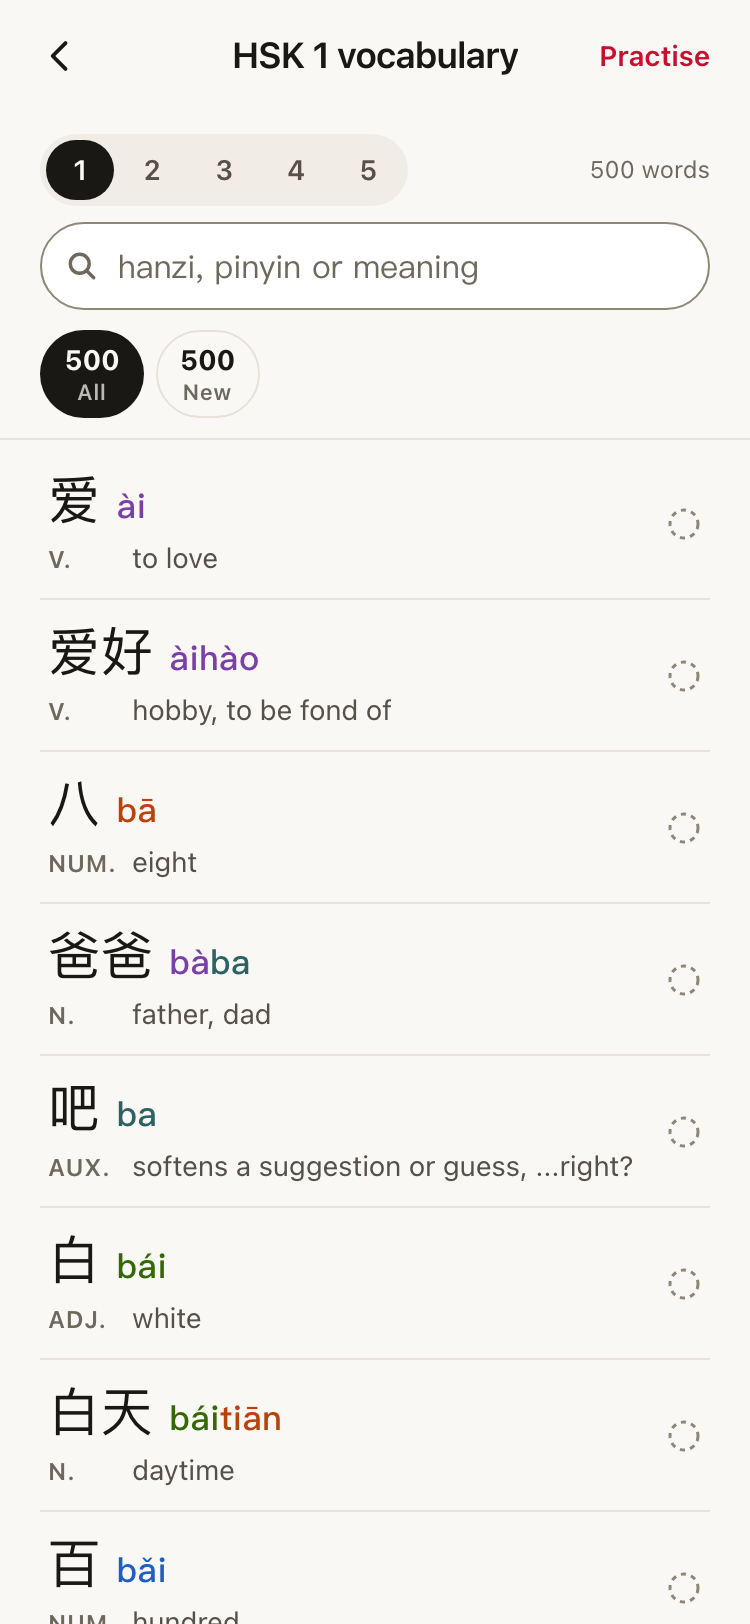
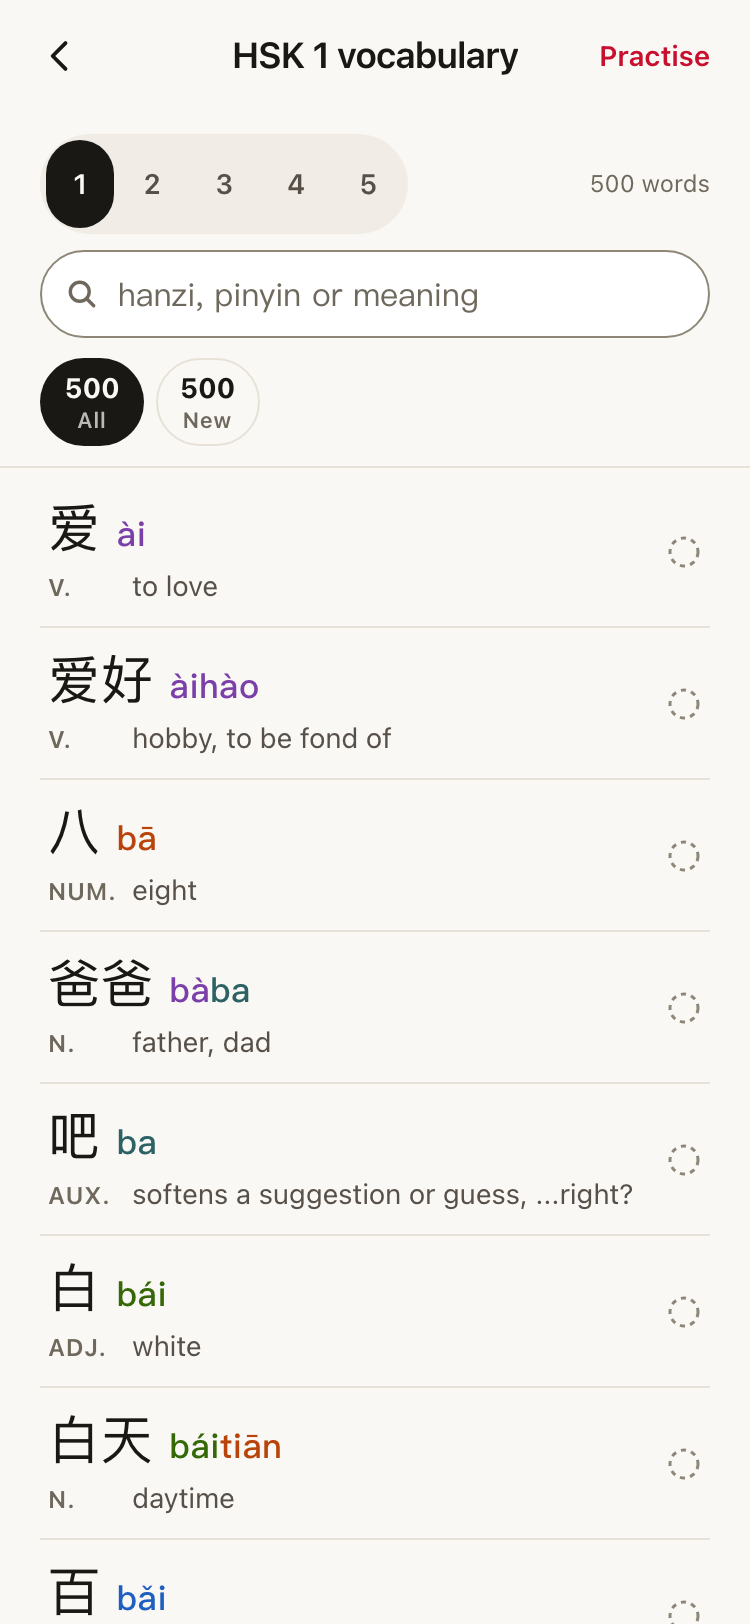
critic(vocab-data): FAIL — Re-emit every pinyin string in word units instead of one syllable per token — in the 4,3 [loop 5]

diff --git a/progress/verdicts/loop-5-vocab-data.md b/progress/verdicts/loop-5-vocab-data.md
@@ -1,0 +1,155 @@
+# loop-5 — vocab-data
+
+**Verdict: FAIL** — and for the first time the failure is purely orthographic. The corpus is
+*right*: every word is present, at the right level, with the right sense and the right tone marks.
+What it gets wrong is how it *spells* what it knows. Two majors survive, and both are the same
+sentence typed the wrong way.
+
+**Loop 4's ask was delivered and overshot.** Loop 4 asked for the 969 HSK 3 example sentences; all
+five levels shipped. `node scripts/build-vocab.mjs --verify` → `examples 4308, problems 0,
+problemsByGate {}`, examplesPerLevel `{1:500, 2:770, 3:969, 4:999, 5:1070}` — reproduced on my own
+count off the shipped JSON: 4,308 of 4,308 cards carry an example, 0 missing. Quality holds under
+independent measurement too: headword absent 0/4308, hanzi/syllable misalignment 0/4308, sentences
+over 20 characters 0, duplicate hanzi 0, duplicate English 0, characters above the card's own level
+0, 不/一 sandhi correct on all 1,044 instances. `progress/shots/loop-5/vocab-data-quiz5-mobile.png`
+shows the sentence panel live on an HSK 5 teach card where loop 4 photographed a filler panel.
+
+**Vocabulary fidelity is a genuine pass and should not be re-audited.** 4,316/4,316 official ids
+covered, 0 phantom ids, 0 level mismatches, 0 POS drift, 2,367/2,367 traditional forms correct, all
+8 collapsed rows verified individually as same-hanzi + same-pinyin variants with both senses kept
+(老, 省, 把, 初, 任, 为, 批, 品). Sense selection — the axis loop 4 flagged — is clean: 穿 is fixed,
+带 ships "to take along" against CEDICT's "band; belt", 才 is correctly split cái-Adv L2 / cái-N L4.
+Two independent readers of ~110 and ~60 hand-picked cards found **zero** wrong-for-level primary
+senses.
+
+**Weighed out.** Two of the critic's seven findings do not survive:
+
+- **"14 words drop the neutral-tone dot; 63 are honoured" is refuted as written.** There are 77
+  rows with `·` in `officialPinyin` and **0 of them are honoured** — I checked every one against the
+  shipped `syllables` array and all 77 print a full tone (别人 `[bié/2, rén/2]`, 学生 `[xué/2,
+  shēng/1]`, 太阳 `[tài/4, yáng/2]`). `displayPinyin()` in `scripts/build-vocab.mjs` strips `·`
+  unconditionally, so the dot cannot be honoured on any row. The 63/14 split does not exist, and
+  what actually distinguishes the critic's 14 is the `∥` separability marker, which is on 189 rows,
+  not 14. The *observation* is real; the finding is superseded by finding 2 below, which measures
+  the same defect correctly against a source that is unambiguous.
+- **"~1 in 25 example translations are keyed to the gloss" is refuted.** An independent 45-sentence
+  sample from L4/L5 found 0 of this kind. The two named cards are arguable, not wrong: 个体 genuinely
+  carries the biological sense its card was deliberately disambiguated to, and 分散注意力 does
+  literally mean to scatter attention. No reproducible rate.
+
+## Surviving findings
+
+### 1. MAJOR — pinyin is written character-by-character, not in words: 0 of 42,112 sentence tokens join two syllables, and 192 headwords ship an invented space
+
+The single most-visible line on every card contradicts both Pleco and the app itself.
+
+`progress/shots/loop-5/vocab-data-pinyin-split-mobile.png` is the whole thing on one screen: the
+hero reads **bǎochí** joined, and four lines below the sentence reads **"Qǐng dà jiā bǎo chí ān
+jìng."** — 大家, 保持 and 安静 all split, including the headword the red underline points at. Pleco
+sets that as "Qǐng dàjiā bǎochí ānjìng." The bar is in the repo:
+`reference/screenshots/pleco/pleco-iphone-02.png` prints "Wǒ zài wùlǐxué fāngmiàn de zhīshi, jīhū
+děngyú líng." — every polysyllable joined. Same defect on
+`progress/shots/loop-5/vocab-data-quiz5-mobile.png` (hero `shǔbiāo`, sentence `shǔ biāo`) and
+`progress/shots/loop-5/vocab-data-jile-mobile.png` ("Zhè ge xiāo xi ràng dà jiā gāo xìng jí le.").
+
+Measured on my own scripts: **0 of 42,112** example-pinyin tokens contain more than one vowel
+nucleus, while **3,067 of 3,372** multi-syllable headwords are joined. **4,172 of 4,308** sentences
+contain at least one multi-character corpus word, so this is the whole corpus.
+
+The critic saw half of it. The other half is in the headwords, and no loop has named it before:
+**192 of the 305 spaced headwords have a space that exists in no source.** `displayPinyin()` does
+`.replace(/∥/g,' ')`, converting the official list's separability *marker* into a printed space —
+帮忙 → "bāng máng", 睡觉 → "shuì jiào", 结婚 → "jié hūn", 值得 → "zhí dé", 打开 → "dǎ kāi". The
+reference refutes every one of them on the very same row: alongside `officialPinyin` each entry
+carries a second, already-clean `pinyin` column with no marker — 帮忙=bāngmáng, 值得=zhídé,
+出来=chūlái. Only 113 of the 305 spaces are genuine. This also contradicts the app's own written
+contract: `src/lib/design/Pinyin.svelte` documents that "the gaps... are the official list's own and
+this component keeps every one of them and invents none" — but the gap was invented upstream in the
+build, so `pinyin.spec.ts` passes on a string that already carries the defect.
+
+The mechanism for the sentence half is in the render path, not just the data:
+`ExampleSentence.svelte:115` passes `syllables={run.syllables}` with no `pinyin` prop, so
+`Pinyin.svelte`'s source string is `''`, `sourceSeparators` returns null, and the component falls
+through to the `spaced` branch that emits one space per syllable. Its own doc-comment names this as
+the automatic consequence of passing syllables with no string to read them out of.
+
+### 2. MAJOR — 42 cards print a full tone on a syllable that the CEDICT key they were segmented by marks neutral
+
+`keySyllables()` in `scripts/build-vocab.mjs` already parses CC-CEDICT's tone digits (5 = neutral)
+to segment every headword — then throws the digit away and reads the tone off the printed diacritic
+instead. Result, reproduced exactly: **42 cards** ship a full tone where their own key says neutral.
+学生 `xuéshēng` against `[xue2 sheng5]`; 聪明 `cōngmíng` against `[cong1 ming5]`; 太阳 `tàiyáng`;
+关系 `guānxì`; 小姐 `xiǎojiě`; 位置 `wèizhì`; 合同 `hétóng`; 值得 `zhí dé`; also 别人, 不客气, 记住,
+那里, 起来, 道理, 好处, 态度, 味道, 心里, 照顾, 后面, 价钱, 力量, 尺寸, 夫人, 教训, 看来, 活泼,
+逻辑 and 18 more. **29 of the 42 are also dotted in the official list**, so both available
+authorities agree and the card contradicts both.
+
+This is not only letters. `progress/shots/loop-5/vocab-data-zhide-mobile.png` shows 值得 rendered
+"zhí dé" in the hero, again in the sentence line, with 得 painted 2nd-tone green — so the learner
+reads the wrong tone off the colour too. And `WordSheet.svelte:492` calls `speak(word.hanzi,
+'word')`, so the speaker button on that same card says *zhíde*. One card, one button, two
+pronunciations.
+
+### 3. MINOR — the sentence line and the headword line print the same word two different ways, ~181 times across 45 words
+
+Nothing in the build gates it: the verify step checks that a sentence's syllable count matches its
+character count, never that a word reads the same in a sentence as on its own card. Proper nouns
+lose their capital everywhere but position 0 — 中国 is `Zhōngguó` on its card and `zhōng guó` in all
+40 sentences that contain it (`我想吃中国菜。 | wǒ xiǎng chī zhōng guó cài`); 汉语 `Hànyǔ` vs `hàn
+yǔ` 24×, 中文 11×, 北京 10×. Neutral tone flips both directions: 网上 card `wǎng shang` vs sentence
+`wǎng shàng` 10×, 家里 8×, 留下 7×; and 学生 card `xuéshēng` vs sentence `xué sheng`. Even adjacent
+cards disagree: 个 L1's 我有两个哥哥 writes `liǎng ge` while 一 L1's 我有一个哥哥 writes `yí gè`.
+
+### 4. MINOR — 面 (L2) still ships without "face" — loop 4's ask, the only one not acted on
+
+面 L2-0377 ships `["side","surface","measure word: flat things"]`; the reference's 面1 leads its
+cedictDefs with "face", and 脸 L2-0351 ships `["face"]`. The distractor guard cannot see this by
+construction: `senses.ts:277` defines `senseSet(word)` over `word.meanings` only, so a sense deleted
+from the shipped glosses is invisible to the collision check and 面/脸 stay eligible as a pair. A
+corollary neither loop drew: 面1/面2 are the **only** one of 19 same-level homograph pairs not
+separated by pinyin — both ship `miàn` at L2 as consecutive rows, so with "face" gone the browse
+list shows two adjacent 面 miàn rows distinguished only by gloss. (The guard is otherwise doing real
+work: 0 duplicate primary button texts within any level, across 236 shared sense keys.)
+
+### 5. MINOR — 极了 and 分之 still strip the official ellipsis, fourth loop running
+
+Reference L3-0318 is …极了 and L4-0242 is …分之…; both ship bare, and they are the only 2 of 4,308
+cards whose pinyin fails to match a reference field when the ellipsis is kept. Largely defused now:
+`progress/shots/loop-5/vocab-data-jile-mobile.png` shows the qualified gloss "after an adjective:
+utterly" plus 这个消息让大家高兴极了。, which teaches the pattern in situ. But the 96px hero is still
+a string that never occurs alone.
+
+### 6. MINOR — 谁 and 熟 are the only 2 cards whose `syllables` array does not spell their `pinyin`
+
+谁 ships `"shéi/shuí"` with `[{shéi,2}]`, 熟 ships `"shú/shóu"` with `[{shú,2}]`. Renders without
+error today because both variants happen to be 2nd tone and the leftover text rides along in
+`sourceSeparators`, but any consumer reading `syllables` loses the variant silently.
+
+## Biggest gap
+
+**Re-emit every pinyin string in word units instead of one syllable per token — in the 4,308 example
+sentences and in the 192 headwords the `∥` marker wrongly split — and honour neutral tone from the
+CEDICT key while you are in that function.**
+
+Concretely, in `scripts/build-vocab.mjs`:
+
+1. Stop turning `∥` into a space. `displayPinyin()` should drop the marker (and the optional-syllable
+   parenthetical on 有些/有点儿/差点儿), not print it, so 帮忙 → `bāngmáng`, 值得 → `zhíde`,
+   出来 → `chūlái`. Validate each result against the reference row's own clean `pinyin` column, which
+   already has the right answer for all 192; leave the 113 genuinely space-separated entries such as
+   岸上 `àn shang` alone.
+2. Give each example sentence word-group boundaries alongside its per-syllable array, joining tokens
+   only where the corpus itself already treats them as one word, and have `ExampleSentence.svelte`
+   pass a joined source string to `<Pinyin>` so it stops falling into the `spaced` branch. **Do not
+   lose the 1:1 syllable-to-character alignment** — the headword underline depends on it and it
+   currently holds on all 4,308 sentences.
+3. Read the tone off CEDICT's digit, not off the diacritic: where the key says `5`, emit a toneless
+   syllable with `tone: 0` so `<Pinyin>` colours it neutral. That fixes 学生 → `xuésheng`,
+   太阳 → `tàiyang`, 关系 → `guānxi`, 值得 → `zhíde` and 38 others, and makes the printed pinyin agree
+   with what the Listen button already says.
+
+Done means: every multi-syllable corpus word renders as one token in both the hero and the sentence
+line; 0 headword spaces that the reference's `pinyin` column does not have; 0 cards printing a full
+tone where their CEDICT key says 5; and `node scripts/build-vocab.mjs --verify` still reports
+`problems: 0` with syllable-count alignment unbroken. Re-shoot 保持, 值得 and 学生 and check the hero
+and the sentence line spell the word the same way.
